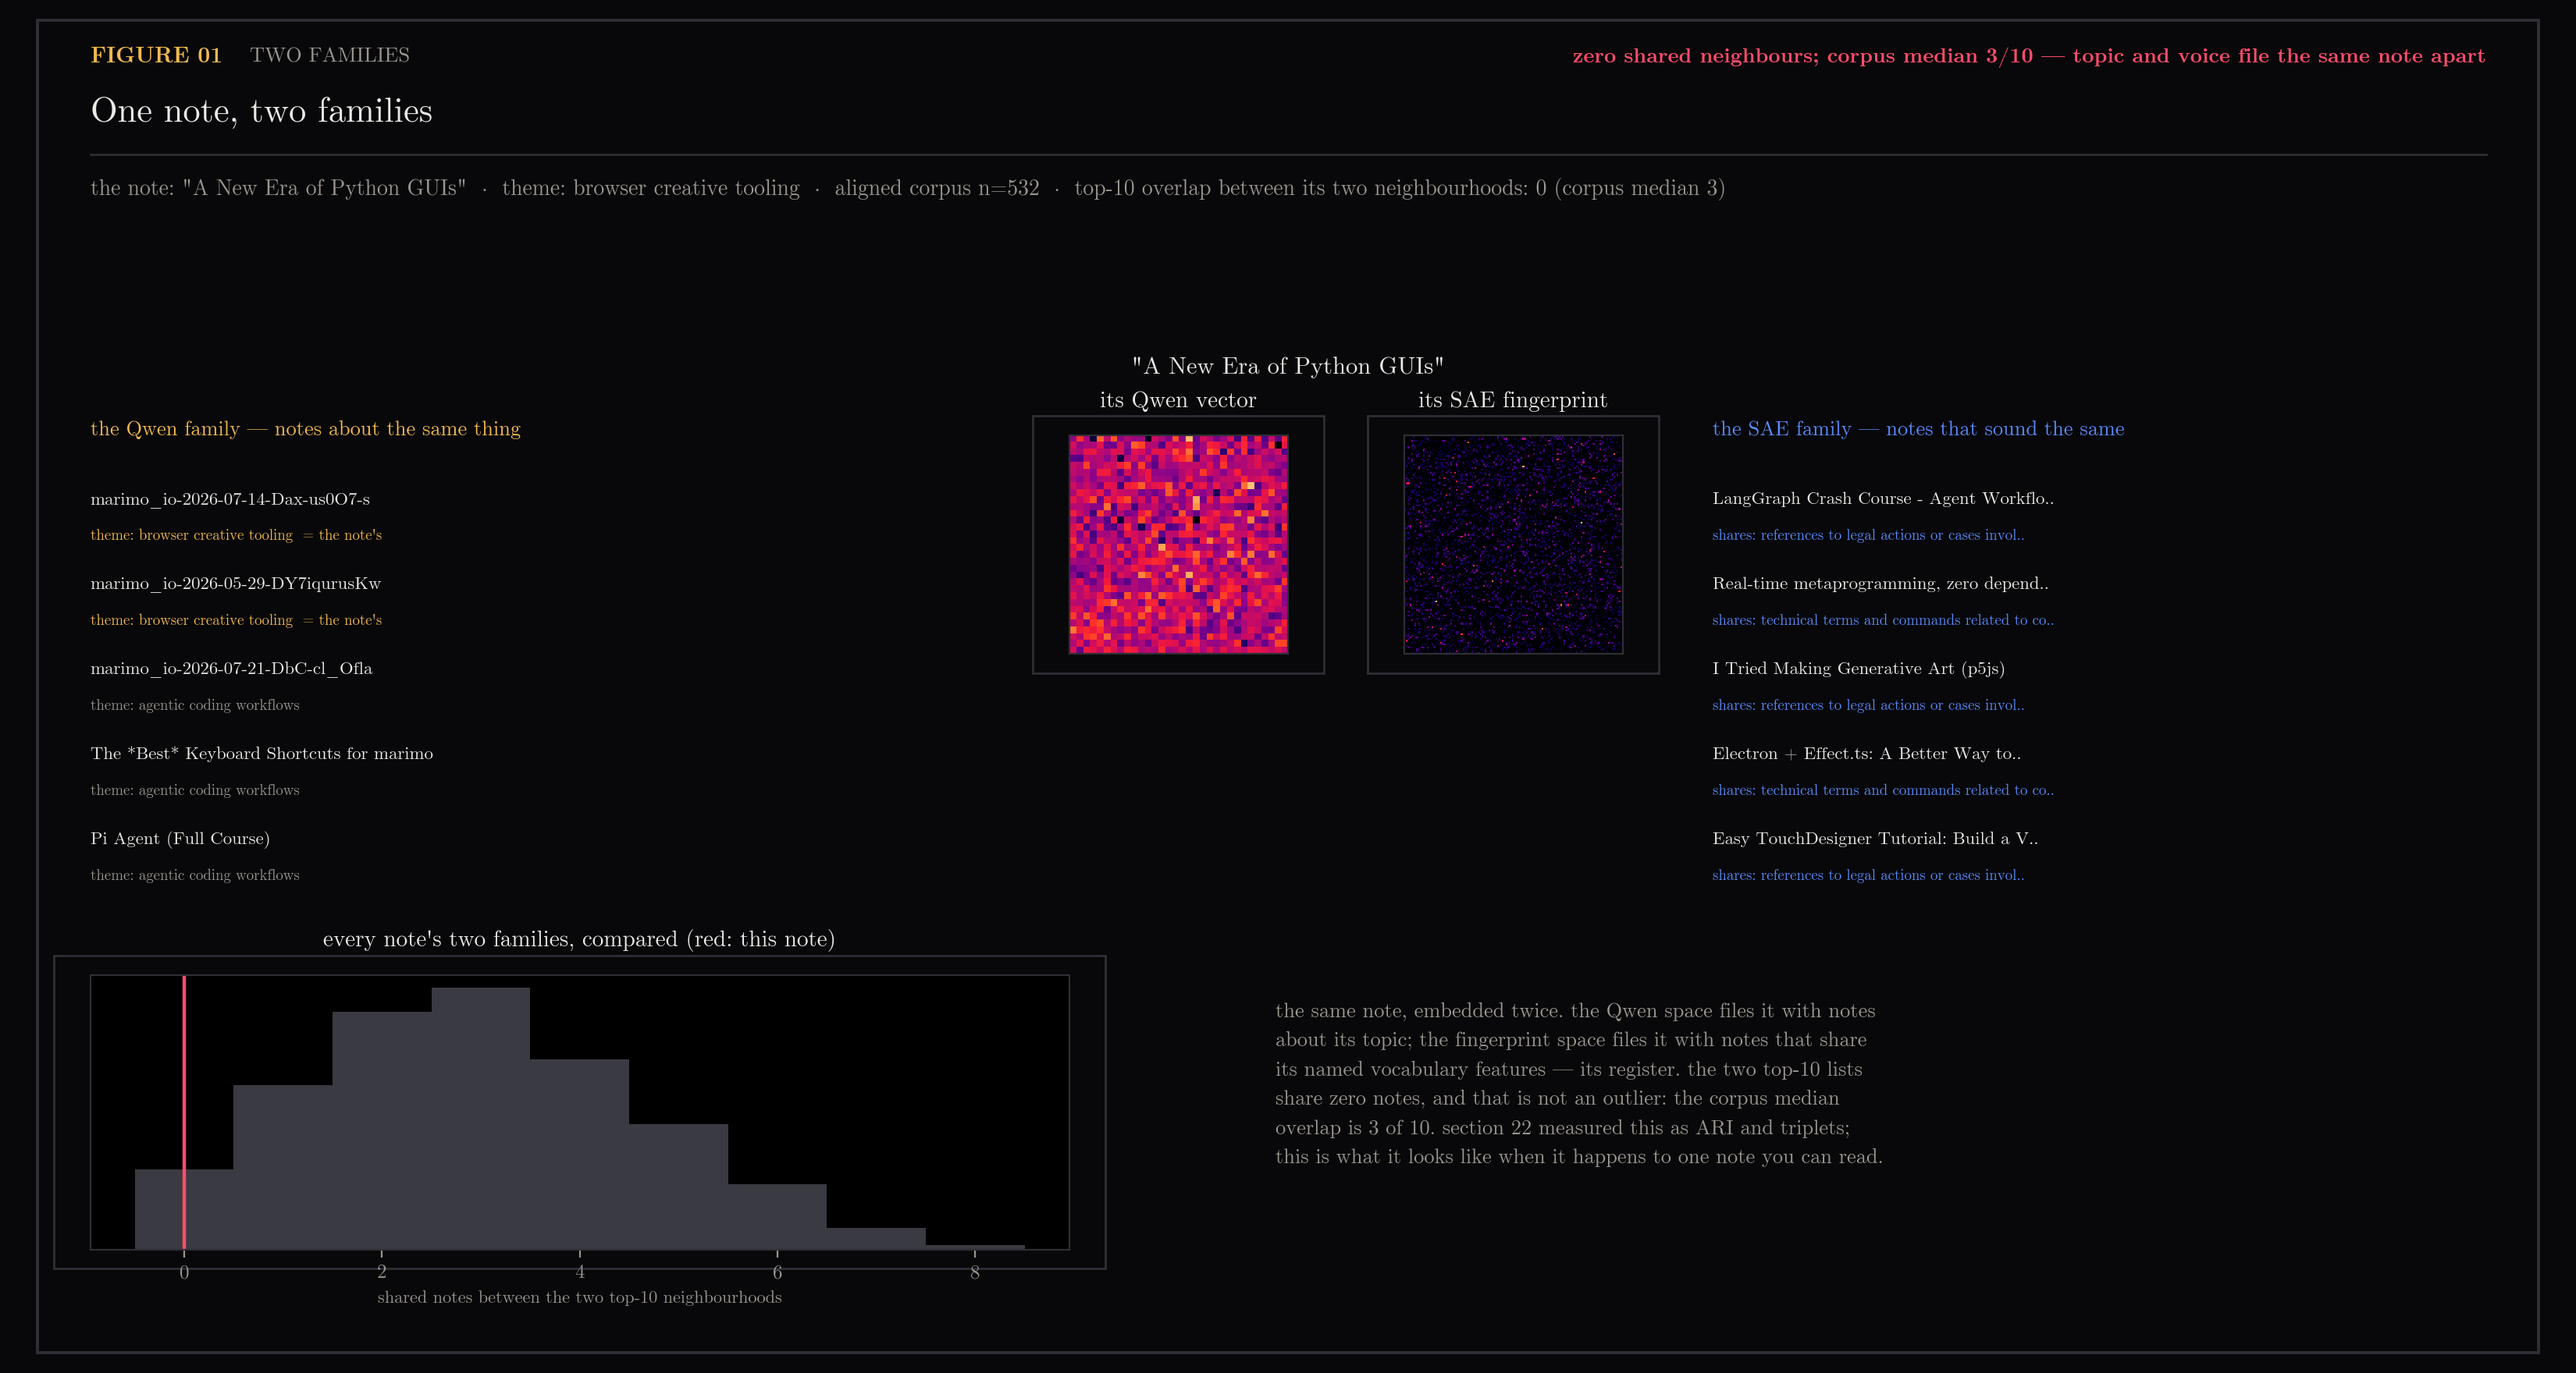
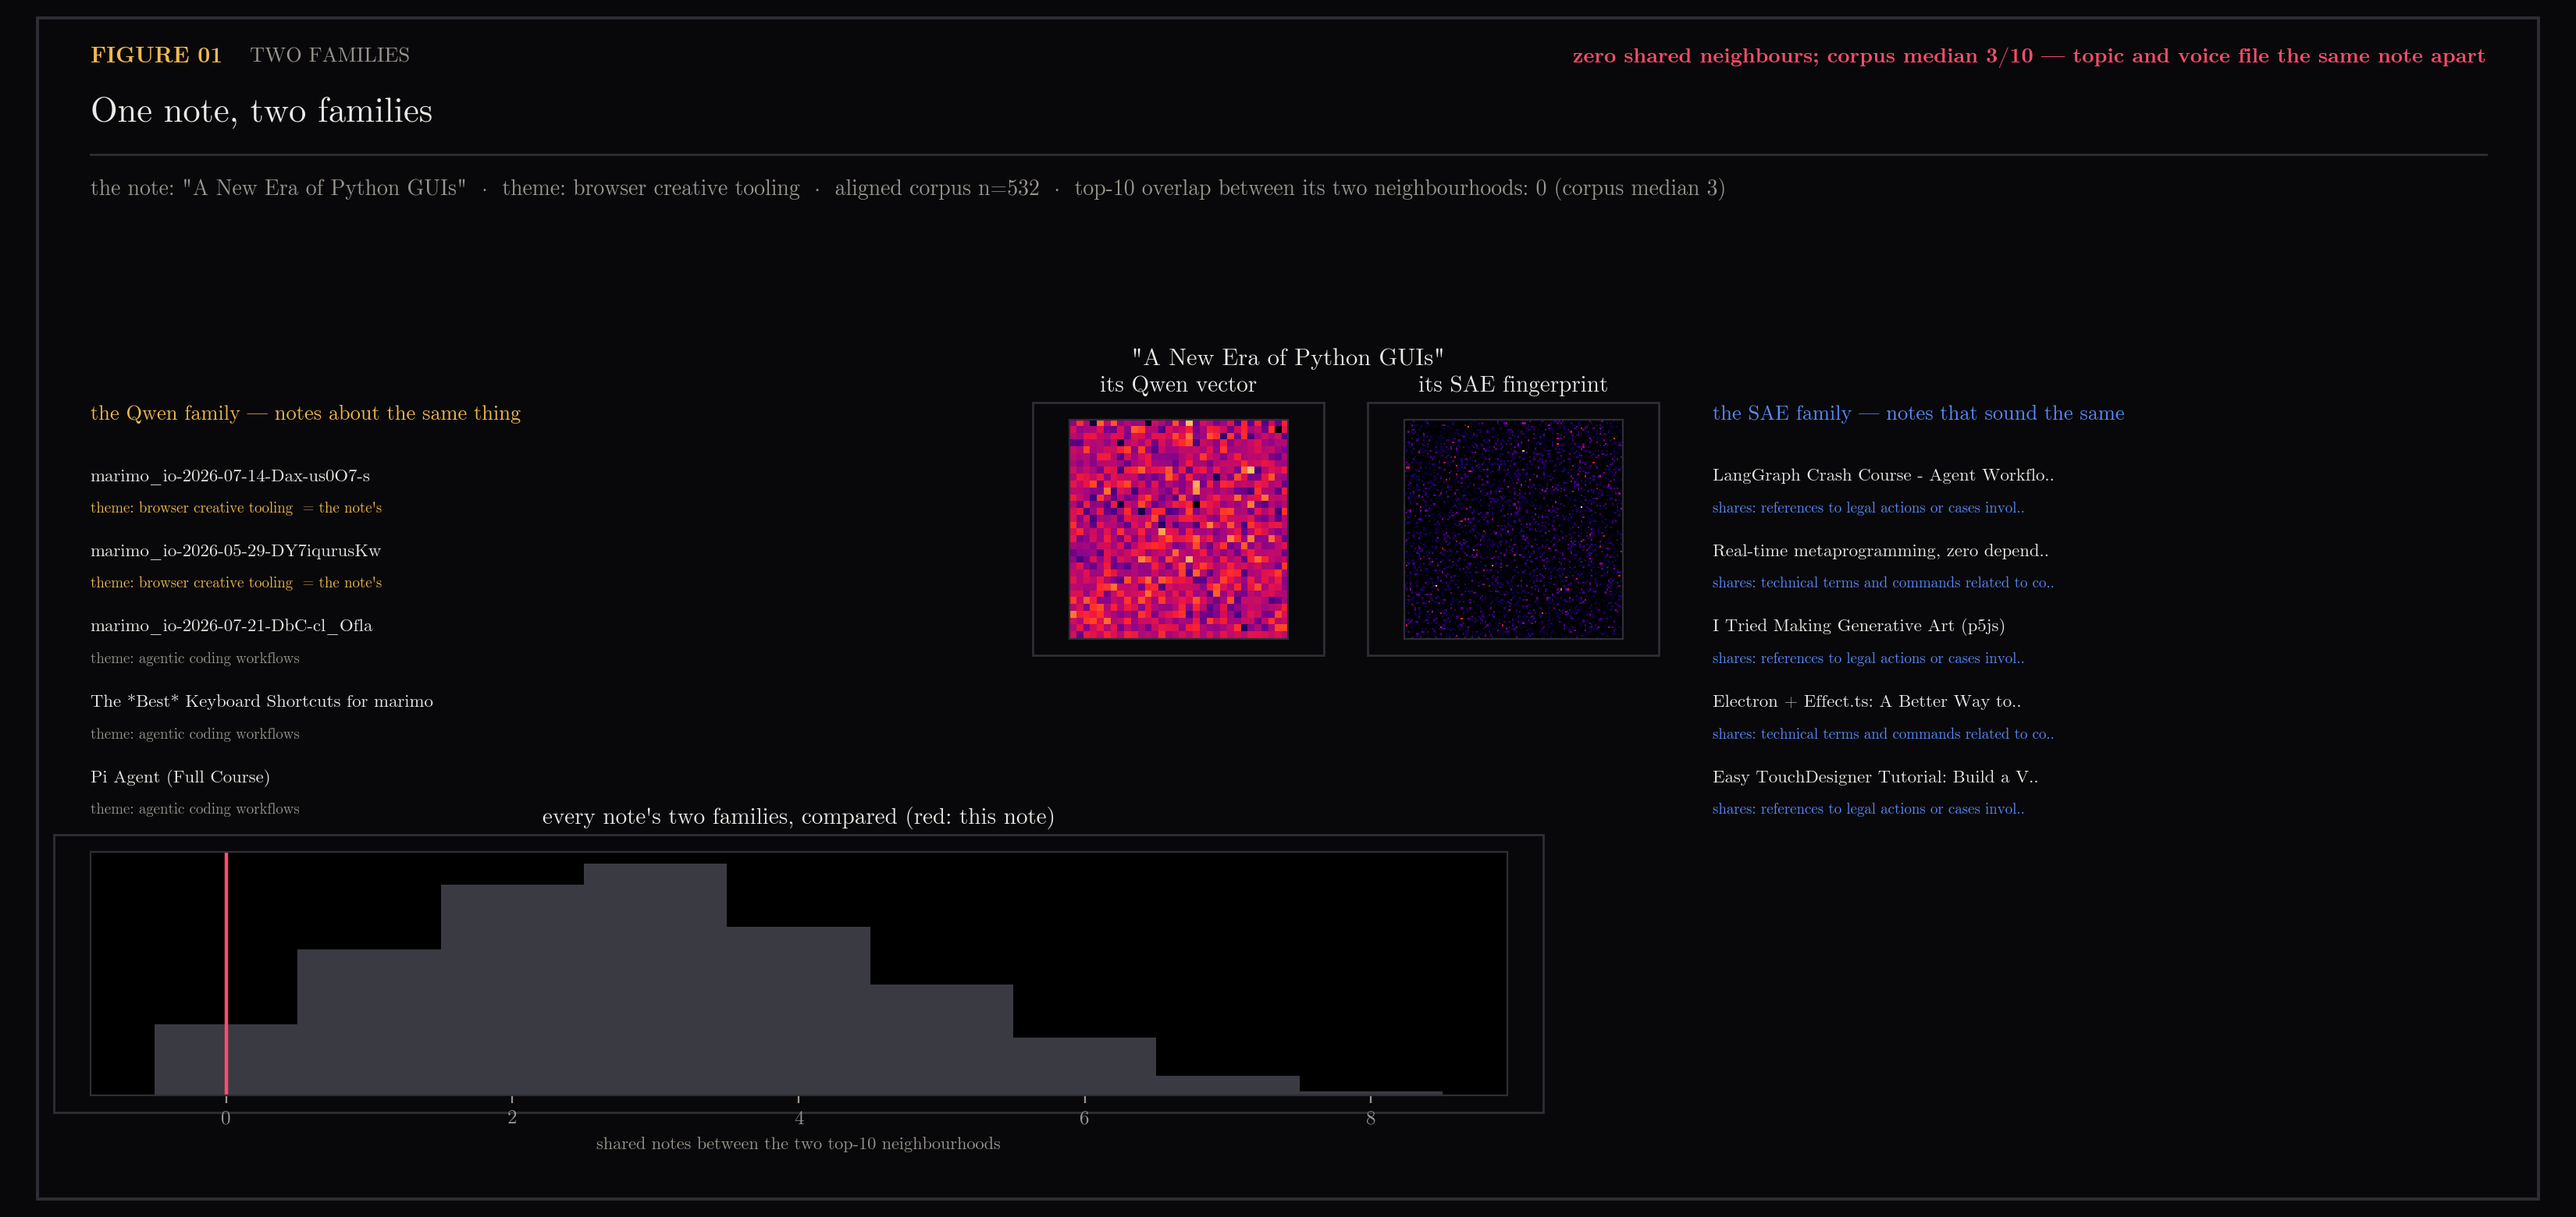
fix(36,37): prose out of the figures; style contract gains the rule
36 figure 02: the seven-line explainer is gone (the README already said
it) and the six matrices now sit in one comparison row instead of a 2x3
grid with a text column — texture comparison is the claim, so the panels
sit shoulder to shoulder. 37 figure 01: explainer paragraph removed, the
overlap histogram widened into the freed band, and the portrait aspect
now derives from the live figure instead of a hardcoded stale height
(the frames-off bug class from 34's first terrain cut).

House-style README gains two durable rules from today's corrections:
prose lives in the markdown, never as fig.text paragraphs; and text
placement is verified by cropping the rendered PNG at native resolution,
where full-figure thumbnails hide clipped labels.

diff --git a/scripts/plot_six_rulers.py b/scripts/plot_six_rulers.py
@@ -148,7 +148,7 @@ def fig02(X, names, mats):
         "each panel: the full 568x568 similarity matrix under one ruler, rows and columns in ONE shared order "
         "(cosine dendrogram leaves), 2x mean-pooled for print  ·  brightness = similarity, per-panel 1-99% limits"
     )
-    fig, top = figure(16.5, 8.4, 2, "six rulers", "Six textures of the same corpus", meta)
+    fig, top = figure(16.5, 5.6, 2, "six rulers", "Six textures of the same corpus", meta)
 
     y_top = top - 0.06
     w = 0.145
@@ -160,30 +160,13 @@ def fig02(X, names, mats):
         lo, hi = np.percentile(M, [1, 99])
         W, H = fig.get_figwidth(), fig.get_figheight()
         h = w * W / H
-        row, col = divmod(j, 3)
-        ax = fig.add_axes([MARGIN + col * 0.17, y_top - row * (h + 0.115) - h, w, h])
+        ax = fig.add_axes([MARGIN + j * (w + 0.0122), y_top - h, w, h])
         ax.imshow(M, cmap=cmap, vmin=lo, vmax=hi, interpolation="nearest")
         ax.set_xticks([])
         ax.set_yticks([])
         for s in ax.spines.values():
             s.set_color(FRAME)
         panel_title(ax, m, 24)
-
-    fig.text(
-        MARGIN + 0.55,
-        y_top - 0.05,
-        "the same blocks appear in every panel — the map is the map,\n"
-        "whichever ruler draws it. what changes is the background:\n"
-        "centring and rank-transforms kill the cone's uniform glow\n"
-        "(the top-left-to-everywhere brightness cosine carries), and\n"
-        "CSLS dims the rows of notes that were close to everything.\n"
-        "section 19 said the null models won; the textures say why —\n"
-        "the six rulers were always measuring the same geometry.",
-        color=MUTED,
-        fontsize=9.5,
-        linespacing=1.7,
-        va="top",
-    )
 
     verdict(fig, "same blocks in all six — the rulers disagree about the background, not the map")
     save(fig, "02-six-textures.png")

diff --git a/scripts/plot_two_families.py b/scripts/plot_two_families.py
@@ -100,11 +100,11 @@ def main() -> None:
         f'the note: "{short(names[note], 48)}"  ·  theme: {short(labels[note], 24)}  ·  '
         f"aligned corpus n={n}  ·  top-10 overlap between its two neighbourhoods: 0 (corpus median {int(np.median(overlaps))})"
     )
-    fig, top = figure(16.5, 8.8, 1, "two families", "One note, two families", meta)
+    fig, top = figure(16.5, 7.8, 1, "two families", "One note, two families", meta)
 
     y_top = top - 0.10
     cmap = saturated_magma()
-    W, H = 16.5, 8.8
+    W, H = fig.get_figwidth(), fig.get_figheight()
 
     # the note's two portraits, centre column
     xq, xg = 0.415, 0.545
@@ -163,28 +163,13 @@ def main() -> None:
         )
 
     # population panel: overlap distribution
-    axh = fig.add_axes([MARGIN, 0.09, 0.38, 0.20])
+    axh = fig.add_axes([MARGIN, 0.10, 0.55, 0.20])
     style_axes(axh)
     axh.hist(overlaps, bins=np.arange(-0.5, overlaps.max() + 1.5), color=DIM, lw=0)
     axh.axvline(0, color=RED, lw=1.6)
     axh.set_xlabel("shared notes between the two top-10 neighbourhoods", color=MUTED, fontsize=8)
     axh.set_yticks([])
     panel_title(axh, "every note's two families, compared (red: this note)", 60)
-
-    fig.text(
-        MARGIN + 0.46,
-        0.27,
-        "the same note, embedded twice. the Qwen space files it with notes\n"
-        "about its topic; the fingerprint space files it with notes that share\n"
-        "its named vocabulary features — its register. the two top-10 lists\n"
-        "share zero notes, and that is not an outlier: the corpus median\n"
-        f"overlap is {int(np.median(overlaps))} of 10. section 22 measured this as ARI and triplets;\n"
-        "this is what it looks like when it happens to one note you can read.",
-        color=MUTED,
-        fontsize=9.5,
-        linespacing=1.7,
-        va="top",
-    )
 
     verdict(
         fig,

diff --git a/docs/assets/README.md b/docs/assets/README.md
@@ -132,6 +132,12 @@ import; `axes.unicode_minus` is off so minus signs render in the serif face.
 - **The meta line is part of the design.** It carries the measured quantities
   (counts, bandwidths, scores). A figure whose title claims something its meta
   line does not quantify is incomplete.
+- **Prose lives in the markdown, never in the figure.** A figure carries
+  objects, readouts, labels and one red verdict; multi-sentence explainer
+  blocks set as `fig.text` belong in the section README. If a paragraph
+  feels necessary inside the panel area, the geometry is not carrying the
+  claim yet. Verify text placement by cropping the rendered PNG at native
+  resolution — full-figure thumbnails hide clipped labels.
 - **3D surfaces are figures, not screenshots.** A scalar field drawn as
   terrain gets the full anatomy: interpolate between grid nodes (bilinear,
   disclosed in the meta line — raw quads read as shards), hillshade for
